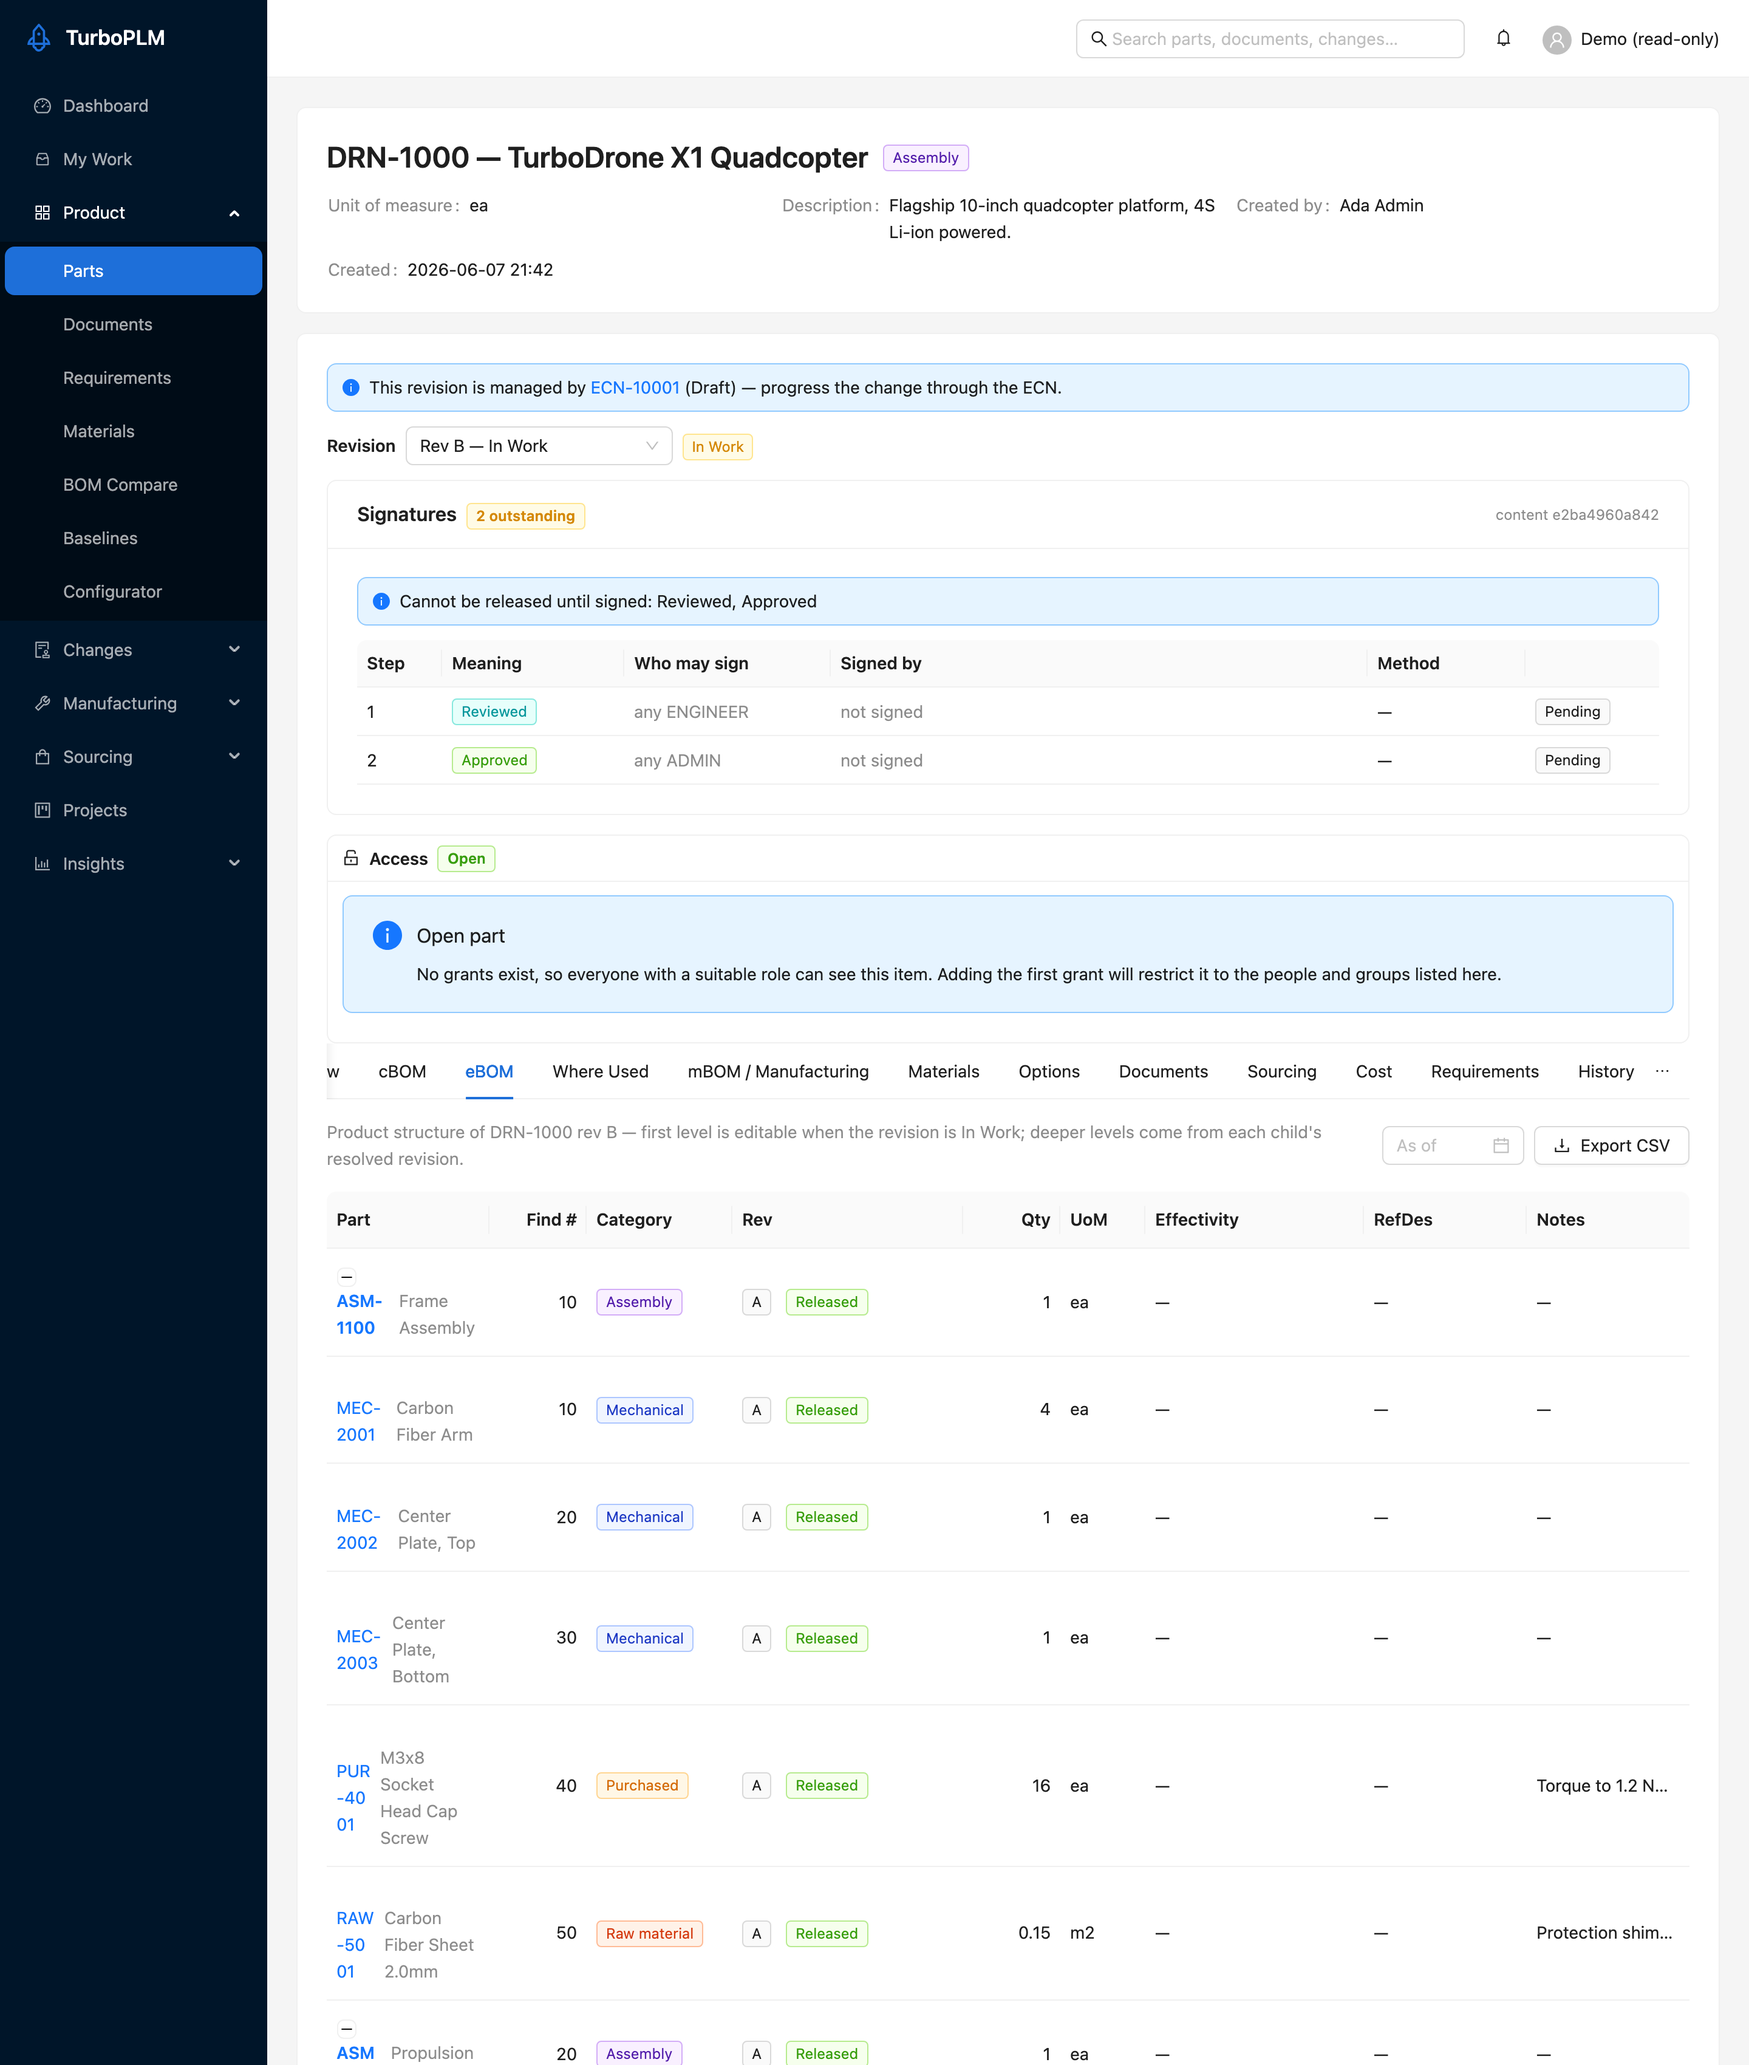
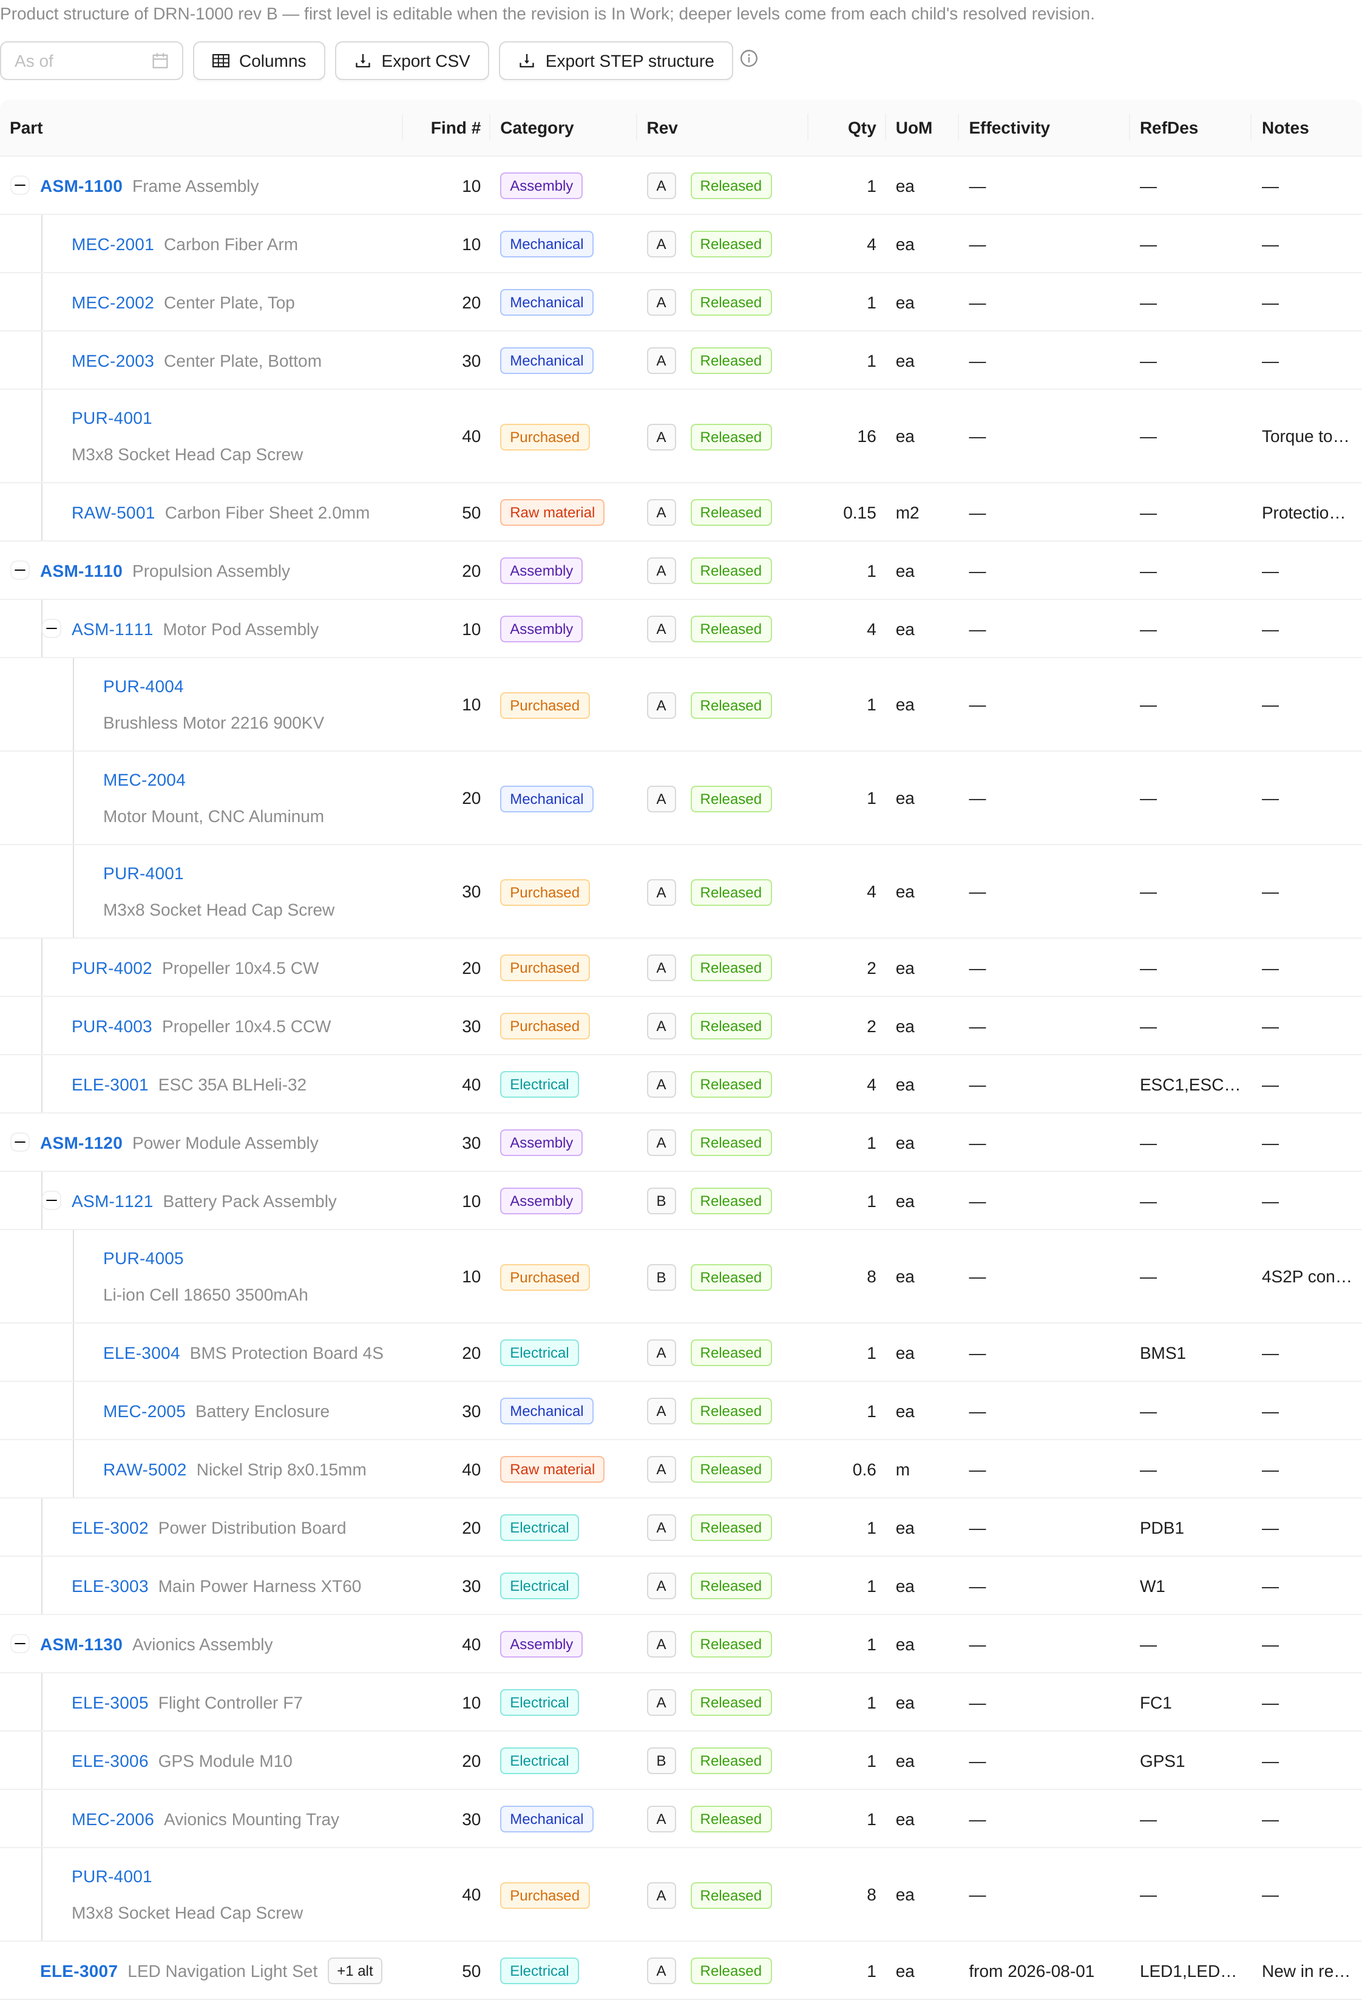
Fix BOM tree indentation and column fit, refresh BOM screenshot

diff --git a/frontend/src/components/part/BomTab.tsx b/frontend/src/components/part/BomTab.tsx
@@ -91,20 +91,21 @@ function collectExpandableKeys(rows: TreeRow[]): Key[] {
  * column left out stays flexible and gets neither. Widths live here rather than on the
  * column definitions so they cannot drift out of step with what the resize hook restores.
  *
- * The totals are chosen to fit a laptop window without horizontal scrolling. Once a BOM
+ * They add up to 1116px, which fits the 1122px content area of a 1440px window with the
+ * sidebar open, so a read-only BOM needs no horizontal scrolling. Once a BOM
  * scrolls by default the right-hand columns are effectively hidden, and a reader who never
  * scrolls will not know Notes exists.
  */
 const BOM_DEFAULT_WIDTHS: Record<string, number> = {
-  part: 300,
-  findNumber: 80,
+  part: 330,
+  findNumber: 72,
   category: 120,
-  rev: 190,
-  quantity: 80,
-  uom: 70,
-  effectivity: 180,
-  refDesignators: 120,
-  notes: 160,
+  rev: 140,
+  quantity: 64,
+  uom: 60,
+  effectivity: 140,
+  refDesignators: 100,
+  notes: 90,
   actions: 150,
 };
 
@@ -590,6 +591,8 @@ export default function BomTab({
           display: 'flex',
           alignItems: 'center',
           justifyContent: 'space-between',
+          flexWrap: 'wrap',
+          gap: 12,
           marginBottom: 16,
         }}
       >
@@ -598,7 +601,7 @@ export default function BomTab({
           editable{editable ? '' : ' when the revision is In Work'}; deeper levels come from each
           child&#39;s resolved revision.
         </Typography.Text>
-        <Space size={8}>
+        <Space size={8} wrap>
           {asOf && <Tag>effectivity filter active</Tag>}
           <DatePicker
             allowClear

diff --git a/frontend/src/styles.css b/frontend/src/styles.css
@@ -82,18 +82,26 @@ body,
    eye nothing to track. These rules add a vertical guide per indent level and
    tabular figures so Find # and Qty align as columns rather than drifting.
 --------------------------------------------------------------------------- */
-.bom-tree .ant-table-row-indent {
+/* antd floats the indent with height: 1px, and that height is what pushes the row's content
+   across. Overriding it made a zero-height float, which pushes nothing, so every level rendered
+   flat. The indent keeps antd's box; the guide is positioned against the cell instead. */
+.bom-tree td.ant-table-cell-with-append {
   position: relative;
-  height: 100%;
 }
 
 .bom-tree .ant-table-row-indent::before {
   content: '';
   position: absolute;
-  right: 0;
-  top: -12px;
-  bottom: -12px;
+  top: 0;
+  bottom: 0;
   border-left: 1px solid var(--bom-guide, rgba(140, 140, 140, 0.28));
+}
+
+/* A long name wraps beside the indent rather than dropping underneath it. */
+.bom-tree td.ant-table-cell-with-append > .ant-space {
+  display: flex;
+  flex-wrap: wrap;
+  row-gap: 0;
 }
 
 /* Depth 0 has no parent to connect to. */

diff --git a/backend/tests/portal.test.ts b/backend/tests/portal.test.ts
@@ -275,7 +275,11 @@ describe('rule P4 — what a supplier may see', () => {
     );
     expect(line.myQuote.unitPrice).toBe(44.8);
 
-    const payload = JSON.stringify(detail.body);
+    // Timestamps are left out: "…T14:22:41.203Z" contains "41.2", which failed this test on
+    // any run whose clock landed on that second.
+    const payload = JSON.stringify(detail.body, (key, value) =>
+      /At$|Date$/.test(key) ? undefined : value
+    );
     // The competitor's identity, their price, the ranking and the buyer's target price are
     // all withheld.
     expect(payload).not.toContain('Nordic');
